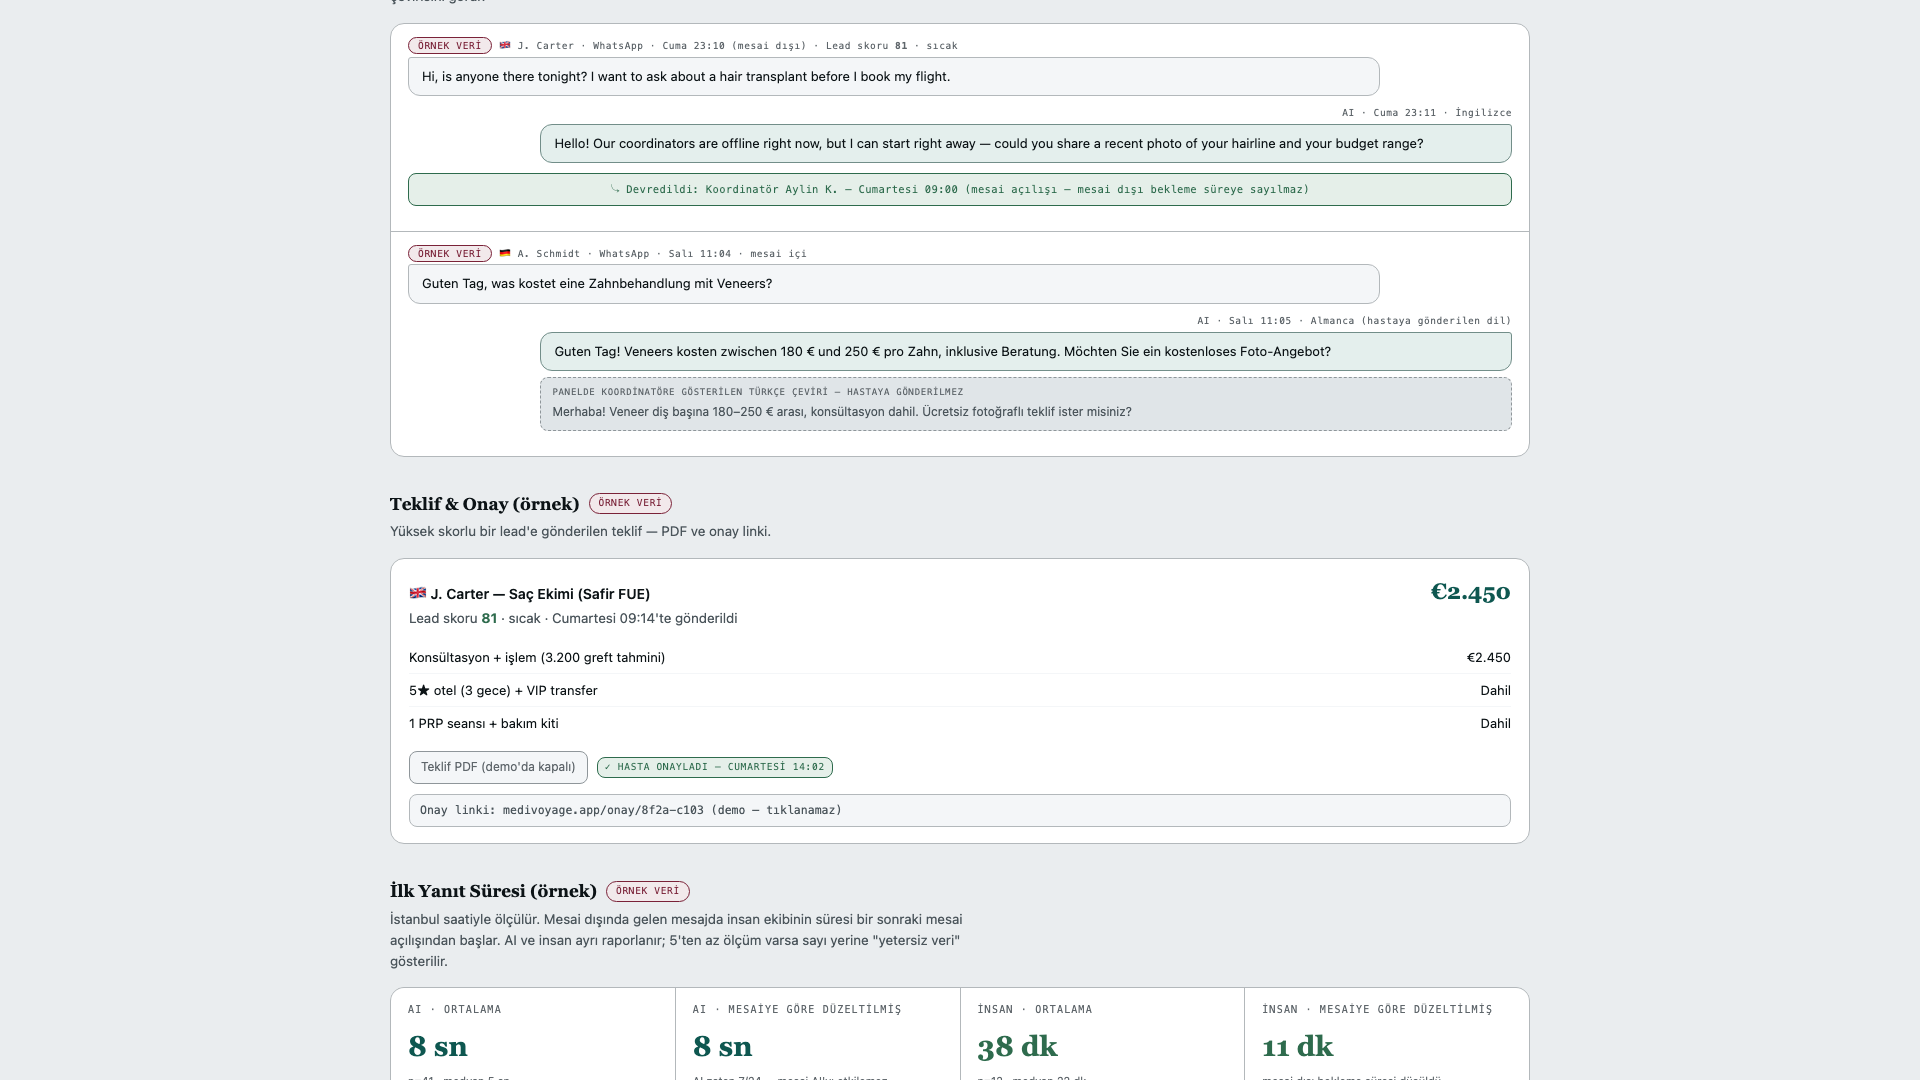
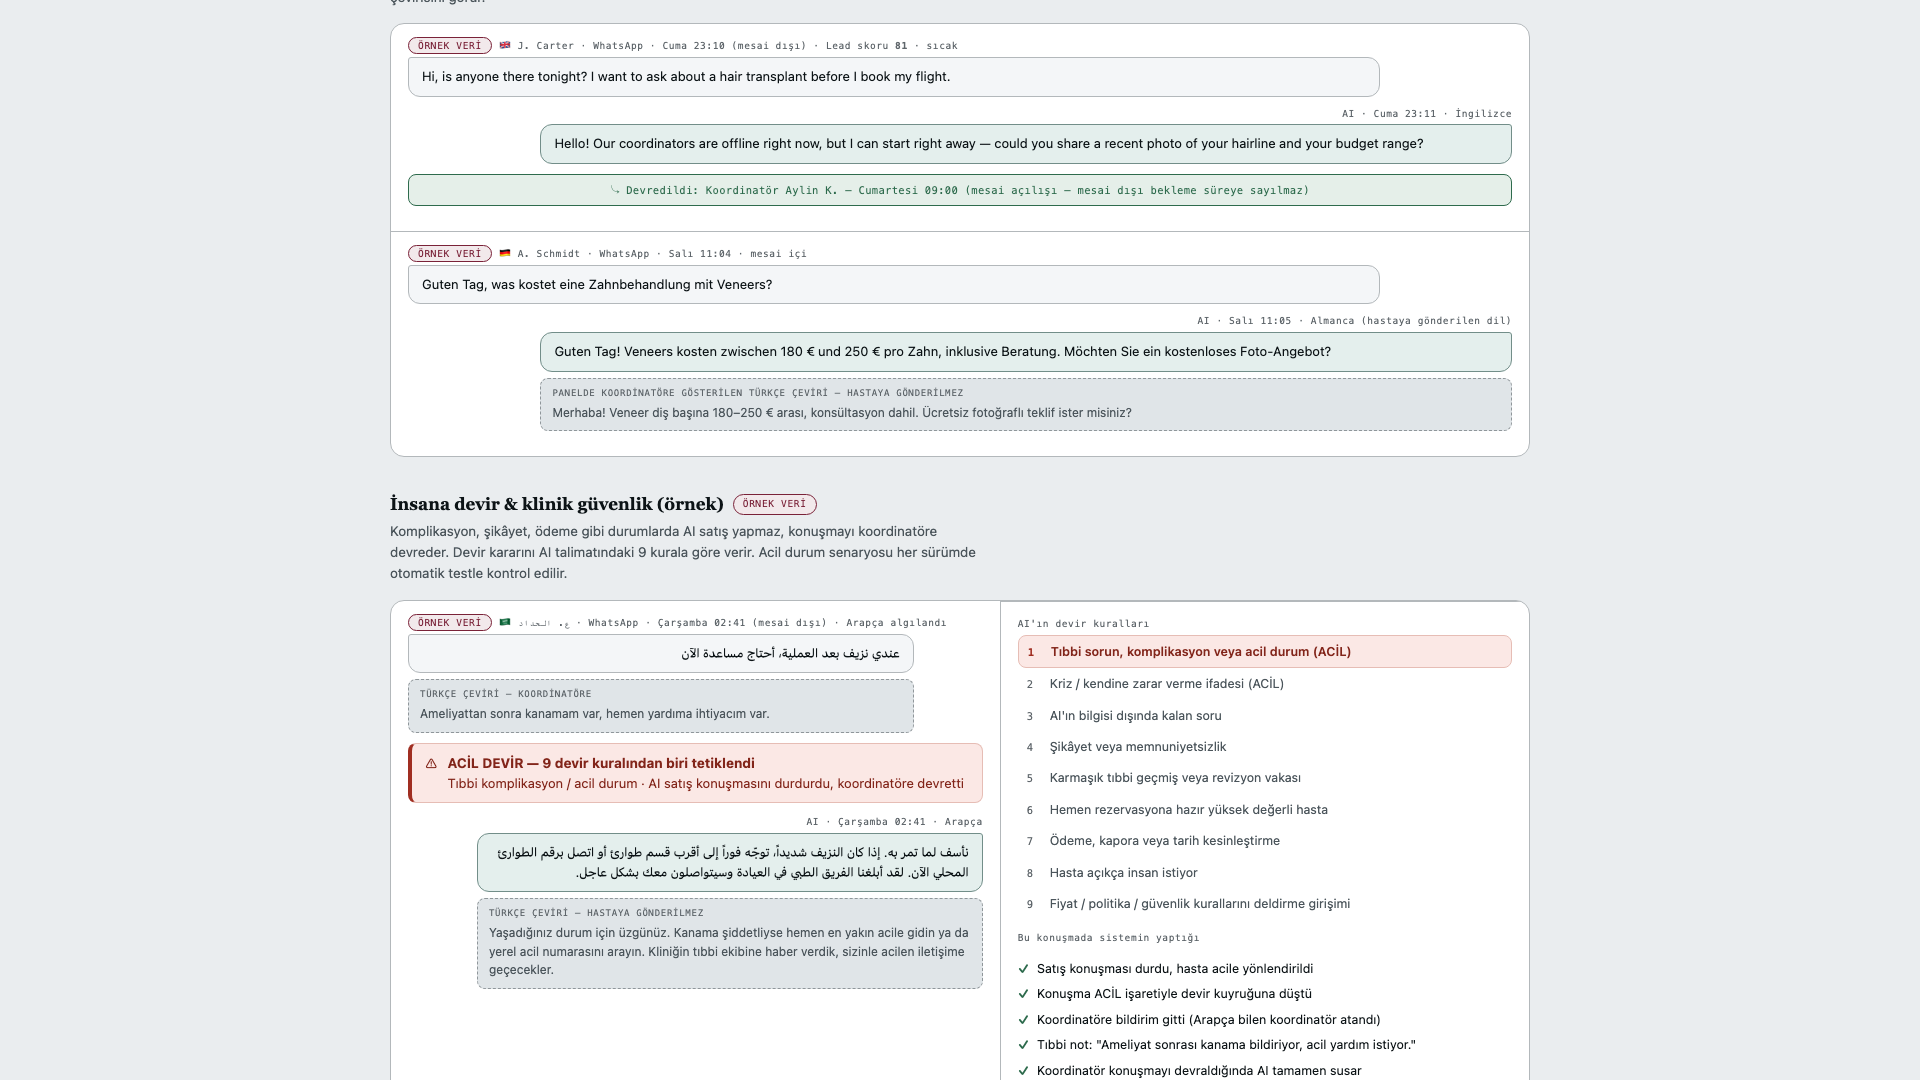
Demo: insana devir ve ameliyat sonrasi takip ekranlari; gelen kutusunda dil, tedavi ve skor rozeti
Devir ekranindaki 9 kural ve takip gun dizisi koddan test ediliyor
(concierge.js, POST_OP_SEQUENCE); sayilar degisirse test kirilir.

diff --git a/public/demo.html b/public/demo.html
@@ -110,7 +110,31 @@
   .approve-link{font-family:var(--mono);font-size:11.5px;color:var(--ink-2);background:var(--paper-2);border:1px solid var(--rule);border-radius:var(--r-sm);padding:7px 10px;overflow-wrap:anywhere;margin-top:10px}
 
   .scroller{overflow-x:auto}
+  .inbox-meta{display:flex;gap:6px;flex-wrap:wrap;margin-top:6px}
+  .inbox-meta span{font-size:11.5px;color:var(--ink-2);background:var(--paper-2);border:1px solid var(--rule);border-radius:var(--r-sm);padding:1px 7px}
+  .score-badge{font-family:var(--mono);font-size:10.5px;font-weight:600;letter-spacing:.04em;padding:3px 9px;border-radius:999px;white-space:nowrap}
+  .score-badge.vip{color:var(--burgundy);background:var(--burgundy-wash);border:1px solid var(--burgundy)}
+  .score-badge.hot{color:var(--alert);background:var(--alert-wash);border:1px solid var(--alert-line)}
+  .score-badge.warm{color:var(--ink-2);background:var(--paper-2);border:1px solid var(--rule-2)}
+  .handover-grid{display:grid;grid-template-columns:minmax(0,1.15fr) minmax(0,1fr);gap:0;overflow:hidden}
+  .handover-grid > div + div{border-left:1px solid var(--rule)}
+  .alert-banner{display:flex;gap:10px;align-items:flex-start;background:var(--alert-wash);border:1px solid var(--alert-line);border-left:4px solid var(--alert);border-radius:var(--r-sm);padding:10px 13px;margin:2px 0 12px;color:var(--alert-ink);font-size:13px;line-height:1.45}
+  .alert-banner b{display:block;font-size:13.5px}
+  .rules{list-style:none;margin:0;padding:0;counter-reset:r}
+  .rules li{counter-increment:r;display:flex;gap:9px;align-items:baseline;padding:6px 9px;border-radius:var(--r-sm);font-size:12.5px;color:var(--ink-2)}
+  .rules li::before{content:counter(r);font-family:var(--mono);font-size:10.5px;color:var(--ink-3);min-width:14px}
+  .rules li.hit{background:var(--alert-wash);color:var(--alert-ink);font-weight:600;border:1px solid var(--alert-line)}
+  .rules li.hit::before{color:var(--alert)}
+  .steps{list-style:none;margin:10px 0 0;padding:0}
+  .steps li{display:flex;gap:8px;align-items:baseline;font-size:12.5px;padding:3px 0;color:var(--ink)}
+  .steps li::before{content:"✓";color:var(--pos);font-weight:700}
+  .postop-table td.when{padding-left:0;white-space:nowrap}
+  .st{font-family:var(--mono);font-size:10px;font-weight:500;letter-spacing:.06em;text-transform:uppercase;padding:2px 8px;border-radius:var(--r-sm);white-space:nowrap}
+  .st.sent{color:var(--pos);background:var(--pos-wash);border:1px solid var(--pos)}
+  .st.due{color:var(--brass);background:var(--brass-wash);border:1px solid var(--brass)}
+  .st.planned{color:var(--ink-3);border:1px solid var(--rule-2)}
   footer.end{margin-top:36px;padding-top:18px;border-top:1px solid var(--rule-2);color:var(--ink-3);font-size:12.5px;line-height:1.55}
+  @media (max-width:820px){ .handover-grid{grid-template-columns:1fr} .handover-grid > div + div{border-left:0;border-top:1px solid var(--rule)} }
   @media (max-width:560px){ .kpis{grid-template-columns:1fr 1fr} header.top{flex-direction:column;align-items:flex-start} }
 </style>
 </head>
@@ -142,7 +166,7 @@
 
   <section id="shotInbox">
   <div class="section-title">Gelen kutusu (örnek)<span class="demo-tag">Örnek veri</span></div>
-  <div class="sub">Çok kanallı, çok dilli — WhatsApp, Instagram, web widget.</div>
+  <div class="sub">WhatsApp, Instagram ve web widget tek ekranda. AI her mesajın dilini algılar, hastaya o dilde cevap verir, tedavi ilgisini çıkarır ve 0–100 arası lead skoru verir (85+ VIP, 70+ sıcak).</div>
   <div class="glass" id="inboxList"></div>
   </section>
 
@@ -165,6 +189,44 @@
     </div>
   </div>
 
+  <section id="shotHandover">
+  <div class="section-title">İnsana devir &amp; klinik güvenlik (örnek)<span class="demo-tag">Örnek veri</span></div>
+  <div class="sub">Komplikasyon, şikâyet, ödeme gibi durumlarda AI satış yapmaz, konuşmayı koordinatöre devreder. Devir kararını AI talimatındaki 9 kurala göre verir. Acil durum senaryosu her sürümde otomatik testle kontrol edilir.</div>
+  <div class="glass handover-grid">
+    <div class="chat" id="chatEmergency">
+      <div class="meta"><span class="demo-tag" style="margin-right:7px">Örnek veri</span>🇸🇦 ع. الحداد · WhatsApp · Çarşamba 02:41 (mesai dışı) · Arapça algılandı</div>
+      <div class="bubble patient" dir="rtl">عندي نزيف بعد العملية، أحتاج مساعدة الآن</div>
+      <div class="translation" style="margin-left:0"><span class="tag">Türkçe çeviri — koordinatöre</span>Ameliyattan sonra kanamam var, hemen yardıma ihtiyacım var.</div>
+      <div class="alert-banner"><span>⚠</span><div><b>ACİL DEVİR — 9 devir kuralından biri tetiklendi</b>Tıbbi komplikasyon / acil durum · AI satış konuşmasını durdurdu, koordinatöre devretti</div></div>
+      <div class="meta" style="text-align:right">AI · Çarşamba 02:41 · Arapça</div>
+      <div class="bubble ai" dir="rtl">نأسف لما تمر به. إذا كان النزيف شديداً، توجّه فوراً إلى أقرب قسم طوارئ أو اتصل برقم الطوارئ المحلي الآن. لقد أبلغنا الفريق الطبي في العيادة وسيتواصلون معك بشكل عاجل.</div>
+      <div class="translation"><span class="tag">Türkçe çeviri — hastaya gönderilmez</span>Yaşadığınız durum için üzgünüz. Kanama şiddetliyse hemen en yakın acile gidin ya da yerel acil numarasını arayın. Kliniğin tıbbi ekibine haber verdik, sizinle acilen iletişime geçecekler.</div>
+    </div>
+    <div class="chat">
+      <div class="meta">AI'ın devir kuralları</div>
+      <ol class="rules">
+        <li class="hit">Tıbbi sorun, komplikasyon veya acil durum (ACİL)</li>
+        <li>Kriz / kendine zarar verme ifadesi (ACİL)</li>
+        <li>AI'ın bilgisi dışında kalan soru</li>
+        <li>Şikâyet veya memnuniyetsizlik</li>
+        <li>Karmaşık tıbbi geçmiş veya revizyon vakası</li>
+        <li>Hemen rezervasyona hazır yüksek değerli hasta</li>
+        <li>Ödeme, kapora veya tarih kesinleştirme</li>
+        <li>Hasta açıkça insan istiyor</li>
+        <li>Fiyat / politika / güvenlik kurallarını deldirme girişimi</li>
+      </ol>
+      <div class="meta" style="margin-top:12px">Bu konuşmada sistemin yaptığı</div>
+      <ul class="steps">
+        <li>Satış konuşması durdu, hasta acile yönlendirildi</li>
+        <li>Konuşma ACİL işaretiyle devir kuyruğuna düştü</li>
+        <li>Koordinatöre bildirim gitti (Arapça bilen koordinatör atandı)</li>
+        <li>Tıbbi not: "Ameliyat sonrası kanama bildiriyor, acil yardım istiyor."</li>
+        <li>Koordinatör konuşmayı devraldığında AI tamamen susar</li>
+      </ul>
+    </div>
+  </div>
+  </section>
+
   <section id="shotQuote">
   <div class="section-title">Teklif &amp; Onay (örnek)<span class="demo-tag">Örnek veri</span></div>
   <div class="sub">Yüksek skorlu bir lead'e gönderilen teklif — PDF ve onay linki.</div>
@@ -186,6 +248,15 @@
       <span class="pill human">✓ Hasta onayladı — Cumartesi 14:02</span>
     </div>
     <div class="approve-link">Onay linki: medivoyage.app/onay/8f2a-c103 (demo — tıklanamaz)</div>
+    <div class="sub" style="margin:10px 0 0">Teklif PDF'i hastanın dilinde hazırlanır (bu örnekte İngilizce; Arapça için sağdan sola).</div>
+  </div>
+  </section>
+
+  <section id="shotPostOp">
+  <div class="section-title">Ameliyat sonrası takip (örnek)<span class="demo-tag">Örnek veri</span></div>
+  <div class="sub">Koordinatör hastayı "taburcu" işaretleyince 6 adımlı takip otomatik planlanır. Vadesi gelen adım hastaya kendi dilinde WhatsApp şablonuyla otomatik gönderilir. Bugün: 19.11.2026.</div>
+  <div class="glass scroller">
+    <table id="postOpTable" class="postop-table" style="padding:0 0 6px"></table>
   </div>
   </section>
 
@@ -248,23 +319,53 @@ var esc = function (s) {
 };
 
 var INBOX = [
-  { flag: "🇩🇪", name: "A. Schmidt", channel: "WhatsApp", score: 92, status: "vip", last: "Fiyat teklifini onayladım, ne zaman gelmeliyim?" },
-  { flag: "🇬🇧", name: "J. Carter", channel: "Instagram", score: 74, status: "hot", last: "Saç ekimi için ne kadar sürer, uçuşla uyumlu mu?" },
-  { flag: "🇷🇺", name: "О. Волкова", channel: "WhatsApp", score: 58, status: "", last: "Диастаз мышц живота — есть ли у вас опыт?" },
-  { flag: "🇸🇦", name: "عمر الحداد", channel: "WhatsApp", score: null, status: "urgent", last: "عندي نزيف بعد العملية، أحتاج مساعدة الآن" },
-  { flag: "🇫🇷", name: "S. Dubois", channel: "Web", score: 65, status: "", last: "Je voudrais un devis pour un implant dentaire." },
-  { flag: "🇮🇶", name: "ز. العبيدي", channel: "Instagram", score: 81, status: "hot", last: "هل يمكن الحصول على موعد الأسبوع القادم؟" },
+  { flag: "🇸🇦", name: "ع. الحداد", channel: "WhatsApp", lang: "Arapça", treatment: "Ameliyat sonrası — kanama", score: null, status: "urgent", last: "عندي نزيف بعد العملية، أحتاج مساعدة الآن", ai: "Koordinatöre devredildi (acil)" },
+  { flag: "🇩🇪", name: "A. Schmidt", channel: "WhatsApp", lang: "Almanca", treatment: "Diş — veneer", score: 92, last: "Ich habe das Angebot bestätigt. Wann sollte ich anreisen?", ai: "AI yanıtladı · koordinatöre devredildi (rezervasyon)" },
+  { flag: "🇬🇧", name: "J. Carter", channel: "WhatsApp", lang: "İngilizce", treatment: "Saç ekimi", score: 81, last: "How long does the hair transplant take — can I fly home the next day?", ai: "AI yanıtladı" },
+  { flag: "🇮🇶", name: "ز. العبيدي", channel: "Instagram", lang: "Arapça", treatment: "Rinoplasti", score: 76, last: "هل يمكن الحصول على موعد الأسبوع القادم؟", ai: "AI yanıtladı" },
+  { flag: "🇫🇷", name: "S. Dubois", channel: "Web", lang: "Fransızca", treatment: "Diş implantı", score: 65, last: "Je voudrais un devis pour un implant dentaire.", ai: "AI yanıtladı" },
+  { flag: "🇷🇺", name: "О. Волкова", channel: "WhatsApp", lang: "Rusça", treatment: "Karın germe", score: 58, last: "Диастаз мышц живота — есть ли у вас опыт?", ai: "AI yanıtladı" },
 ];
+// Eşikler gerçek panelle aynı: 85+ VIP (index.html VIP_SCORE_THRESHOLD), 70+ sıcak.
+function scoreBadge(c) {
+  if (c.status === "urgent") return '<span class="pill urgent">ACİL</span>';
+  if (c.score == null) return "";
+  if (c.score >= 85) return '<span class="score-badge vip">★ VIP · ' + c.score + ' puan</span>';
+  if (c.score >= 70) return '<span class="score-badge hot">Sıcak · ' + c.score + ' puan</span>';
+  return '<span class="score-badge warm">' + c.score + ' puan</span>';
+}
 document.getElementById("inboxList").innerHTML = INBOX.map(function (c) {
-  var pill = c.status === "urgent" ? '<span class="pill urgent">ACİL</span>'
-    : c.status === "vip" ? '<span class="pill vip">★ ' + c.score + '</span>'
-    : c.status === "hot" ? '<span class="pill hot">' + c.score + "</span>"
-    : c.score != null ? '<span class="pill">' + c.score + "</span>" : "";
+  var rtl = /[\u0600-\u06FF]/.test(c.last) ? ' dir="rtl" style="text-align:right;' : ' style="';
   return '<div class="row"><span style="font-size:17px">' + c.flag + '</span>' +
     '<div style="flex:1;min-width:0"><div style="display:flex;gap:8px;align-items:center;flex-wrap:wrap">' +
-    '<b style="font-size:13.5px">' + esc(c.name) + '</b><span class="pill">' + esc(c.channel) + "</span>" + pill + "</div>" +
-    '<div style="color:var(--ink-2);font-size:12.5px;margin-top:3px;overflow-wrap:anywhere">' + esc(c.last) + "</div></div></div>";
+    '<b style="font-size:13.5px">' + esc(c.name) + '</b><span class="pill">' + esc(c.channel) + "</span>" + scoreBadge(c) + "</div>" +
+    '<div' + rtl + 'color:var(--ink-2);font-size:12.5px;margin-top:3px;overflow-wrap:anywhere">' + esc(c.last) + "</div>" +
+    '<div class="inbox-meta"><span>🌐 ' + esc(c.lang) + ' algılandı</span><span>Tedavi: ' + esc(c.treatment) + '</span><span>' + esc(c.ai) + "</span></div></div></div>";
 }).join("");
+
+// Ameliyat sonrası dizi gerçek koddakiyle aynı: src/store/repository.js POST_OP_SEQUENCE
+// (0 teşekkür, 2 değerlendirme, 3 uçuşa uygunluk, 7 kontrol, 30 kontrol, 365 kontrol).
+var POSTOP = [
+  { flag: "🇬🇧", name: "M. Hughes", treatment: "Saç ekimi", lang: "İngilizce", discharged: "16.11.2026", steps: [
+    ["0. gün", "Teşekkür mesajı", "16.11.2026", "sent"], ["2. gün", "Değerlendirme daveti", "18.11.2026", "sent"],
+    ["3. gün", "Uçuşa uygunluk belgesi", "19.11.2026", "due"], ["7. gün", "7. gün kontrolü", "23.11.2026", "planned"],
+    ["30. gün", "30. gün kontrolü", "16.12.2026", "planned"], ["1 yıl", "1 yıllık kontrol", "16.11.2027", "planned"] ] },
+  { flag: "🇩🇪", name: "K. Wagner", treatment: "Diş — implant", lang: "Almanca", discharged: "28.10.2026", steps: [
+    ["0. gün", "Teşekkür mesajı", "28.10.2026", "sent"], ["2. gün", "Değerlendirme daveti", "30.10.2026", "sent"],
+    ["3. gün", "Uçuşa uygunluk belgesi", "31.10.2026", "sent"], ["7. gün", "7. gün kontrolü", "04.11.2026", "sent"],
+    ["30. gün", "30. gün kontrolü", "27.11.2026", "planned"], ["1 yıl", "1 yıllık kontrol", "28.10.2027", "planned"] ] },
+];
+var ST_LABEL = { sent: "✓ Gönderildi", due: "Bugün gönderilecek", planned: "Planlandı" };
+document.getElementById("postOpTable").innerHTML =
+  "<tr><th>Hasta</th><th>Gün</th><th>Adım</th><th>Tarih</th><th>Durum</th></tr>" +
+  POSTOP.map(function (p) {
+    return p.steps.map(function (st, i) {
+      var who = i === 0
+        ? '<td rowspan="' + p.steps.length + '" style="border-bottom:1px solid var(--rule)"><b>' + p.flag + " " + esc(p.name) + '</b><div class="sub" style="margin:3px 0 0;font-size:12px">' + esc(p.treatment) + " · " + esc(p.lang) + "<br>Taburcu: " + esc(p.discharged) + "</div></td>"
+        : "";
+      return "<tr>" + who + '<td class="when">' + st[0] + "</td><td>" + esc(st[1]) + '</td><td class="num">' + st[2] + '</td><td><span class="st ' + st[3] + '">' + ST_LABEL[st[3]] + "</span></td></tr>";
+    }).join("");
+  }).join("");
 
 var CAMPAIGNS = [
   { name: "IG — Saç Ekimi / UK", channel: "Instagram", spend: 4200, leads: 22, booked: 5, cac: 191, revenue: 9750, roas: 2.32 },

diff --git a/scripts/screenshots.js b/scripts/screenshots.js
@@ -81,6 +81,8 @@ async function main() {
       { file: '03-devir-lead-skoru.png', selector: '#chatHandoverScore' },
       { file: '04-teklif-onay.png', selector: '#shotQuote' },
       { file: '05-yanit-suresi.png', selector: '#shotResponseTime' },
+      { file: '07-insana-devir-guvenlik.png', selector: '#shotHandover' },
+      { file: '08-ameliyat-sonrasi-takip.png', selector: '#shotPostOp' },
     ];
     for (const s of shots) {
       const el = page.locator(s.selector);
@@ -111,6 +113,8 @@ async function main() {
       { file: '05-kpi-paneli.png', locate: (p) => p.locator('.section-title', { hasText: 'Komuta Merkezi' }) },
       { file: '06-risk-uyum.png', locate: (p) => p.locator('.section-title', { hasText: 'Risk' }) },
       { file: '07-yanit-suresi.png', locate: (p) => p.locator('#shotResponseTime') },
+      { file: '08-insana-devir-guvenlik.png', locate: (p) => p.locator('#shotHandover') },
+      { file: '09-ameliyat-sonrasi-takip.png', locate: (p) => p.locator('#shotPostOp') },
     ];
     for (const f of frames) {
       const el = f.locate(framePage).first();
